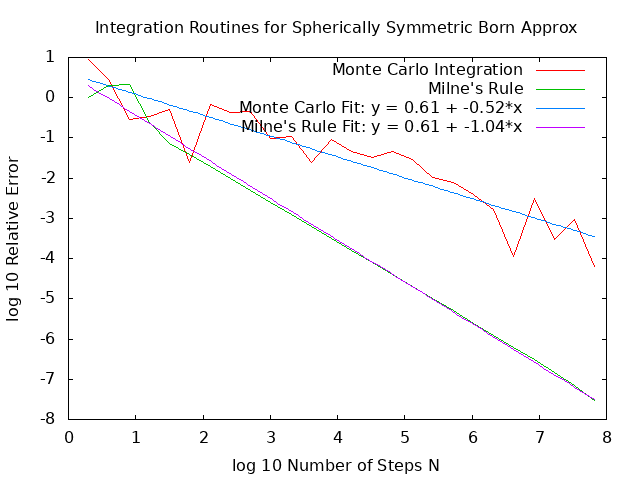
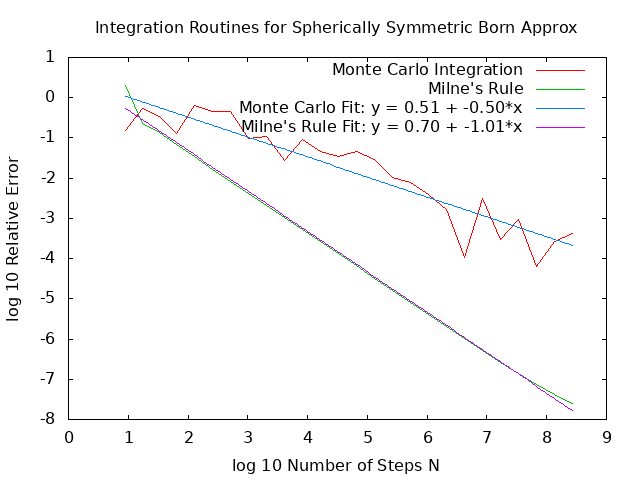
fix 3d monte carlo

diff --git a/integration.cpp b/integration.cpp
@@ -139,11 +139,13 @@ double Integration::monte_carlo_integration(int num_steps){
             // suggested here: https://math.stackexchange.com/questions/87230/picking-random-points-in-the-volume-of-sphere-with-uniform-probability
             while (true)
             {
-                x = lower_bound + (upper_bound - lower_bound) * rand() / RAND_MAX;
-                y = lower_bound + (upper_bound - lower_bound) * rand() / RAND_MAX;
-                z = lower_bound + (upper_bound - lower_bound) * rand() / RAND_MAX;
+                // Generate random x, y, z, between -max_radius and max_radius
+                x = 2 * max_radius * rand() / RAND_MAX - max_radius;
+                y = 2 * max_radius * rand() / RAND_MAX - max_radius;
+                z = 2 * max_radius * rand() / RAND_MAX - max_radius;
+
                 r = sqrt(x * x + y * y + z * z);
-                if (r <= max_radius)
+                if (r <= max_radius && r >= min_radius)
                 {
                     break;
                 }
@@ -168,7 +170,7 @@ double Integration::monte_carlo_integration(int num_steps){
 
 double Integration::milne_rule (int num_points) {
     /* Calcualte the milne rule estimation for a given integrand,
-    num_points, and range */
+    num_points, and range, Needs 4n +1 number of intervals*/
 
     method_parameters *mp_ptr = (method_parameters *) method_params;
     integration_parameters *integ_params = mp_ptr->integ_params;

diff --git a/methods.cpp b/methods.cpp
@@ -150,9 +150,11 @@ double Method::spherical(){
     output << "# log10(N)     Monte Carlo Result   Milne Result   log10(Monte Carlo Error)   log10(Milne Error)" << std::endl;
 
     // Loop through number of steps N
-    for (int num_steps = 2; num_steps <= 100000000; num_steps*=2){
+    for (int n = 2; n <= 100000000; n*=2){
+        int num_steps = 4 * n + 1;
         std::cout << "Calculating for: " << num_steps << " Steps." << std::endl;
         // only comparing the integrals as the front const is the same for both
+
         monte_result = monte_integ->integrate(num_steps);
         milne_result = milne_integ->integrate(num_steps);
         
